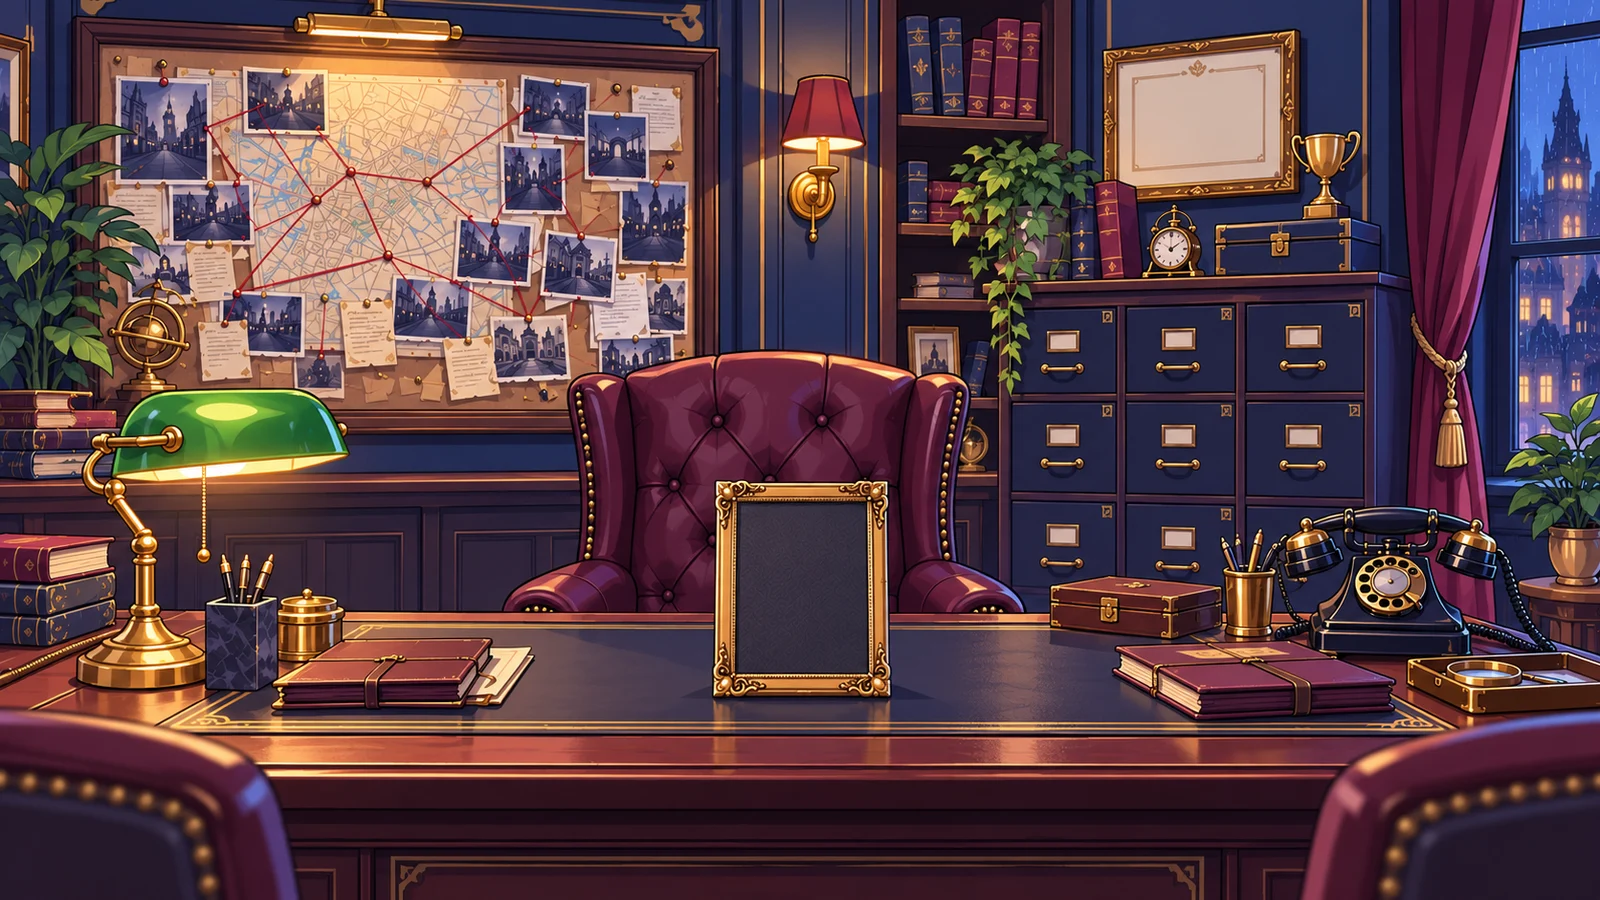
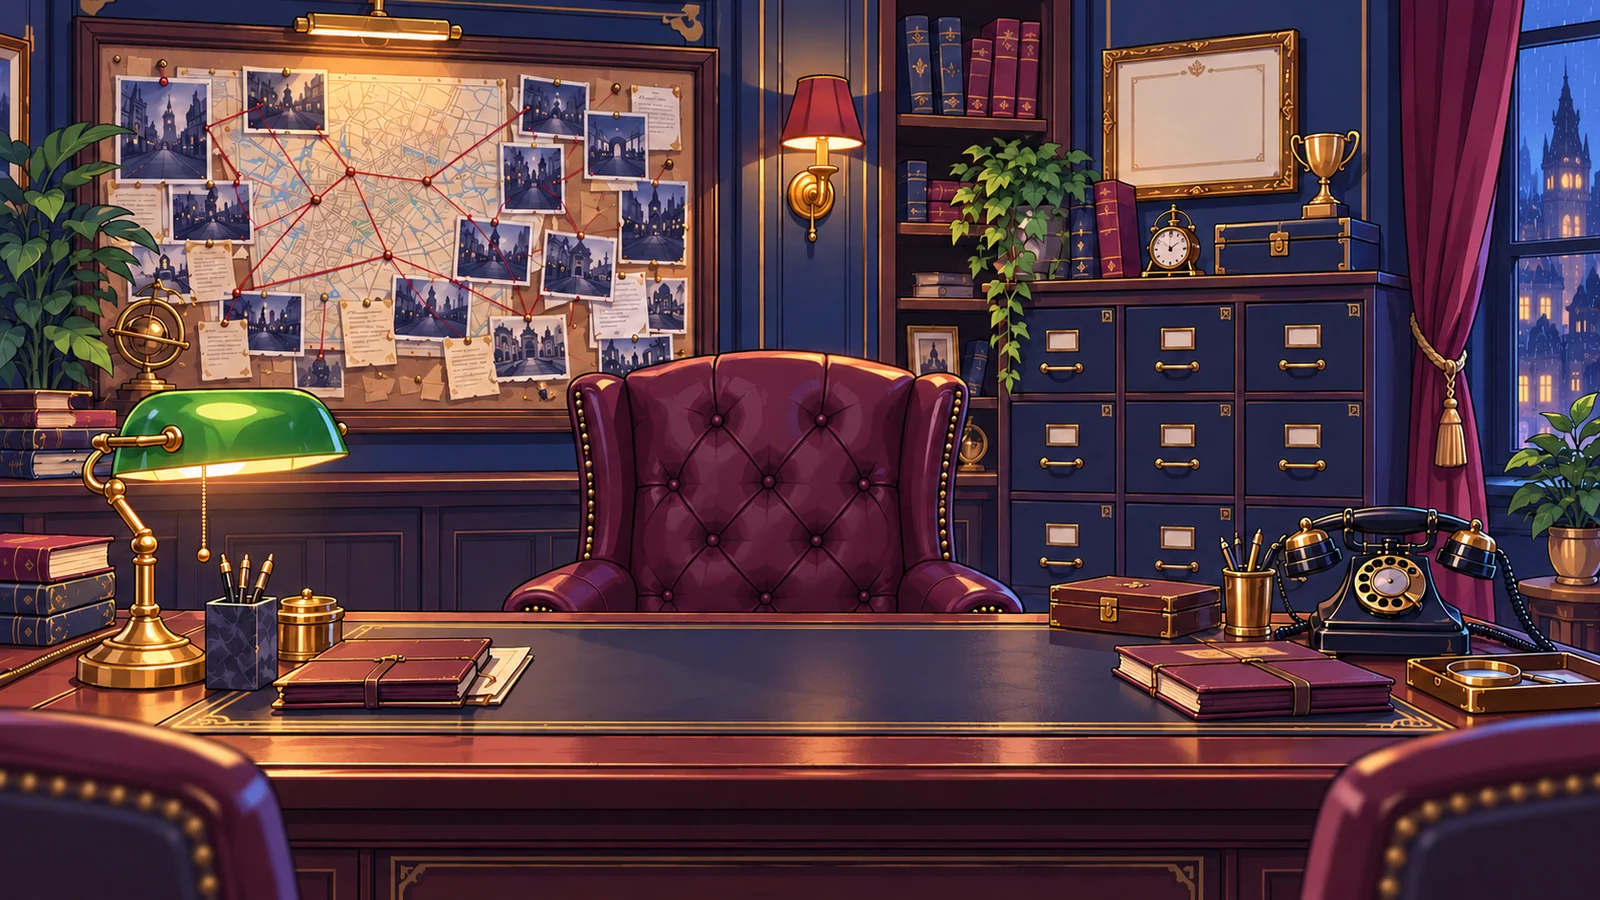
feat: seat animated anime investigators in an uncluttered office

diff --git a/src/components/office-hub.tsx b/src/components/office-hub.tsx
@@ -1,5 +1,6 @@
 "use client";
 import Image from "next/image";
+import { useState } from "react";
 import Link from "next/link";
 import {
   Phone,
@@ -12,6 +13,8 @@ import {
   BarChart3,
   Home,
   Medal,
+  Pause,
+  Play,
 } from "lucide-react";
 import type { HomeSnapshot } from "@/lib/types";
 import { characterFor } from "@/lib/characters";
@@ -27,6 +30,7 @@ export function OfficeHub({
   onSelect: (slug: string) => void;
 }) {
   const character = characterFor(data.profile?.avatar ?? "lupa");
+  const [characterPaused, setCharacterPaused] = useState(false);
   const p = data.progression;
   const rank = p ? ranks[Math.max(0, Math.min(4, p.rank_index))] : null;
   const next = p ? ranks[p.rank_index + 1] : null;
@@ -55,65 +59,40 @@ export function OfficeHub({
           priority
         />
         <div className="office-stage-shade" />
-        <div className="office-welcome-note">
-          <span>BIENVENIDO A TU DESPACHO</span>
-          <p>{data.profile?.name ?? "Investigador"}</p>
-          <small>Un nuevo expediente te espera.</small>
-        </div>
         <div
-          className="office-portrait"
-          aria-label={`Credencial de ${data.profile?.name ?? "investigador"}`}
+          className="office-seated-detective"
+          data-paused={characterPaused}
+          aria-label={`${character.name}, sentado en su escritorio`}
         >
-          <div>
+          <div className="office-seated-motion">
             <Image
-              src={character.image}
-              alt={character.name}
-              width={100}
-              height={125}
+              src={character.seatedImage}
+              alt={`${character.name} sentado investigando`}
+              width={400}
+              height={460}
+              sizes="(max-width: 600px) 35vw, 400px"
+              priority
             />
           </div>
-          <b>{data.profile?.name ?? "Tu identidad"}</b>
-          <small>{rank?.name ?? "Perfil de investigador"}</small>
         </div>
-        <a className="office-scene-link office-board-link" href="#mis-logros">
-          <Trophy size={20} />
-          <span>Mis logros</span>
-          <ArrowUpRight size={13} />
-        </a>
-        <a
-          className="office-scene-link office-files-link"
-          href="#mis-expedientes"
-        >
-          <Archive size={20} />
-          <span>Mis expedientes</span>
-          <ArrowUpRight size={13} />
-        </a>
-        <a className="office-scene-link office-phone-link" href="#unirse">
-          <Phone size={20} />
-          <span>Teléfono de la central</span>
-          <ArrowUpRight size={13} />
-        </a>
-        <div
-          className="office-award-shelf"
-          aria-label="Insignias de tu oficina"
-        >
-          {achievements.slice(0, 3).map((a) => {
-            const date = p?.achievements[a.id];
-            return (
-              <a
-                href="#mis-logros"
-                className={date ? "earned" : "locked"}
-                key={a.id}
-                title={`${a.name}: ${date ? "desbloqueado" : "bloqueado"}`}
-                aria-label={`${a.name}: ${date ? "desbloqueado" : "bloqueado"}`}
-              >
-                {date ? <Medal size={24} /> : <LockKeyhole size={20} />}
-              </a>
-            );
-          })}
+        <div className="office-desk-foreground" aria-hidden="true">
+          <Image
+            src="/office/dispatch.webp"
+            alt=""
+            fill
+            sizes="(max-width: 760px) 100vw, 1200px"
+          />
         </div>
       </div>
       <nav className="office-actionbar" aria-label="Acciones de la oficina">
+        <a href="#unirse">
+          <Phone size={18} />
+          Teléfono de la central
+        </a>
+        <a href="#mis-expedientes">
+          <Archive size={18} />
+          Mis expedientes
+        </a>
         <a href="#oficina-casos">
           <FolderOpen size={18} />
           Elegir caso
@@ -134,6 +113,14 @@ export function OfficeHub({
           <Home size={18} />
           Volver al inicio
         </Link>
+        <button
+          type="button"
+          aria-pressed={characterPaused}
+          onClick={() => setCharacterPaused(!characterPaused)}
+        >
+          {characterPaused ? <Play size={18} /> : <Pause size={18} />}{" "}
+          {characterPaused ? "Animar personaje" : "Pausar personaje"}
+        </button>
       </nav>
       <section
         className="office-progression"

diff --git a/src/app/office-room.css b/src/app/office-room.css
@@ -648,3 +648,123 @@
   width: 100%;
   height: 100%;
 }
+
+/* The scene contains only scenery and the seated investigator; all controls are below it. */
+.office-seated-detective {
+  position: absolute;
+  left: 37%;
+  top: 26%;
+  width: 26%;
+  height: 44%;
+  pointer-events: none;
+  overflow: hidden;
+  z-index: 1;
+  filter: drop-shadow(0 5px 7px #14202a66);
+}
+.office-seated-motion {
+  width: 100%;
+  height: 100%;
+  transform-origin: 50% 95%;
+  animation: office-seated-breathe 5.5s ease-in-out infinite;
+}
+.office-seated-motion img {
+  display: block;
+  width: 100%;
+  height: 100%;
+  object-fit: contain;
+  object-position: center bottom;
+  user-select: none;
+}
+.office-desk-foreground {
+  position: absolute;
+  inset: 0;
+  clip-path: inset(75% 0 0 0);
+  pointer-events: none;
+  z-index: 2;
+}
+.office-desk-foreground img {
+  position: absolute;
+  inset: 0;
+  width: 100%;
+  height: 100%;
+  object-fit: cover;
+}
+.office-seated-detective[data-paused="true"] .office-seated-motion {
+  animation-play-state: paused;
+}
+.office-actionbar button {
+  display: flex;
+  align-items: center;
+  gap: 8px;
+  min-height: 44px;
+  padding: 10px 14px;
+  border: 1px solid #506577;
+  border-radius: 5px;
+  color: #e6dcc9;
+  background: transparent;
+  font-size: 12px;
+}
+.office-actionbar button:hover {
+  background: #314657;
+  border-color: #c8a76b;
+}
+@keyframes office-seated-breathe {
+  0%,
+  100% {
+    transform: translateY(0) rotate(-0.5deg) scaleY(1);
+  }
+  35% {
+    transform: translateY(-2px) rotate(0.5deg) scaleY(1.012);
+  }
+  70% {
+    transform: translateY(-1px) rotate(0) scaleY(1.005);
+  }
+}
+@media (max-width: 600px) {
+  .office-seated-detective {
+    left: 33%;
+    width: 34%;
+    top: 26%;
+    height: 44%;
+  }
+  .office-actionbar button {
+    padding: 9px;
+    font-size: 11px;
+  }
+}
+@media (prefers-reduced-motion: reduce) {
+  .office-seated-motion {
+    animation: none !important;
+    transform: none !important;
+  }
+}
+.detective-office {
+  background: transparent;
+  border: 0;
+  box-shadow: none;
+  overflow: visible;
+}
+.office-titlebar {
+  background: #14212c;
+  border: 1px solid #536171;
+  border-bottom: 0;
+  border-radius: 12px 12px 0 0;
+}
+.office-stage {
+  border: 1px solid #536171;
+  border-top: 0;
+  border-radius: 0 0 12px 12px;
+}
+.office-actionbar {
+  margin-top: 20px;
+  border: 1px solid #405666;
+  border-radius: 10px;
+}
+.office-progression,
+.office-case-section,
+.office-achievements {
+  margin-top: 24px;
+  background: #14212c;
+  border: 1px solid #3c4f60;
+  border-radius: 10px;
+}

diff --git a/tests/e2e/floating.spec.ts b/tests/e2e/floating.spec.ts
@@ -51,6 +51,21 @@ for (const width of [1440, 390])
     await expect.poll(() => errors).toEqual([]);
     const character = page.getByLabel("Mover mi personaje", { exact: true });
     await expect(character).toBeVisible();
+    await expect(
+      page.locator(".office-stage a, .office-stage button"),
+    ).toHaveCount(0);
+    await expect(page.locator(".office-portrait")).toHaveCount(0);
+    await expect(
+      page.getByAltText("Álex sentado investigando", { exact: true }),
+    ).toBeVisible();
+    await page
+      .getByRole("button", { name: "Pausar personaje", exact: true })
+      .first()
+      .click();
+    await expect(page.locator(".office-seated-detective")).toHaveAttribute(
+      "data-paused",
+      "true",
+    );
     const folder = page.getByRole("button", { name: /Teatro de revisión/ });
     await folder.click();
     await expect(folder).toHaveAttribute("aria-pressed", "true");

diff --git a/src/lib/characters.ts b/src/lib/characters.ts
@@ -5,30 +5,35 @@ export const characters = [
     name: "Álex",
     role: "Observador",
     image: "/characters/alex.webp",
+    seatedImage: "/characters/seated/alex.webp",
   },
   {
     id: "huella",
     name: "Bruno",
     role: "Analista",
     image: "/characters/bruno.webp",
+    seatedImage: "/characters/seated/bruno.webp",
   },
   {
     id: "llave",
     name: "Leo",
     role: "Explorador",
     image: "/characters/leo.webp",
+    seatedImage: "/characters/seated/leo.webp",
   },
   {
     id: "luna",
     name: "Nora",
     role: "Investigadora",
     image: "/characters/nora.webp",
+    seatedImage: "/characters/seated/nora.webp",
   },
   {
     id: "camara",
     name: "Vera",
     role: "Fotógrafa",
     image: "/characters/vera.webp",
+    seatedImage: "/characters/seated/vera.webp",
   },
 ] as const;
 export type CharacterId = (typeof characters)[number]["id"];

diff --git a/docs/VERIFICATION.md b/docs/VERIFICATION.md
@@ -1,5 +1,13 @@
 # Actualización de integración — 23 de octubre de 2026
 
+## Personajes sentados y escena despejada — 31 de octubre de 2026
+
+- Se retiran de la escena el retrato, la bienvenida flotante, los enlaces superpuestos y las insignias interactivas. El fondo anime se edita para retirar el marco del escritorio. Los accesos a invitación e historial se conservan en la barra inferior junto al resto de secciones.
+- Cinco nuevos recortes anime sentados, derivados de las identidades existentes: Álex, Bruno, Leo, Nora y Vera. Pose frontal de escritorio, torso y brazos con cuaderno. Assets en `public/characters/seated/`. El fondo editado permanece en `public/office/dispatch.webp`. Preparados con la herramienta integrada de imágenes: conservar identidad/vestuario/estilo, pose sentada y fondo transparente; retirar solo el marco del fondo sin alterar el resto del despacho.
+- Personaje centrado frente a la silla; capa de primer plano del escritorio para profundidad. Animación CSS suave de respiración y balanceo, sin temporizadores de animación. Control de pausa bajo la escena y vista estática con movimiento reducido. No se simula animación articulada ni parpadeo.
+- Lint, 64 pruebas y compilación local aprobados. La revisión de navegador comprueba que no queden enlaces/botones dentro de la escena, ausencia del retrato, presencia del personaje sentado, pausa y selección de casos en escritorio y móvil; resultado final consultado en CI.
+- Sin cambios de perfiles, rangos, logros, base de datos ni lógica multijugador. Los avatares y acompañantes durante la partida mantienen sus assets anteriores.
+
 ## Despacho anime y progresión real — 31 de octubre de 2026
 
 - Oficina recompuesta como una ilustración anime con contornos y cel shading, ajustada a las referencias chibi del usuario. Ventana lateral, escritorio y muebles con perspectiva coherente; el personaje está representado en el marco de credencial sobre la mesa. Las carpetas y los controles se ordenan en zonas independientes. Fondo preparado con la herramienta integrada de imágenes y optimizado a `public/office/dispatch.webp`. Prompt: conservar la composición del despacho, reinterpretarlo en anime/cel shading según referencias, sin personajes, textos, marcas ni pistas reales.
